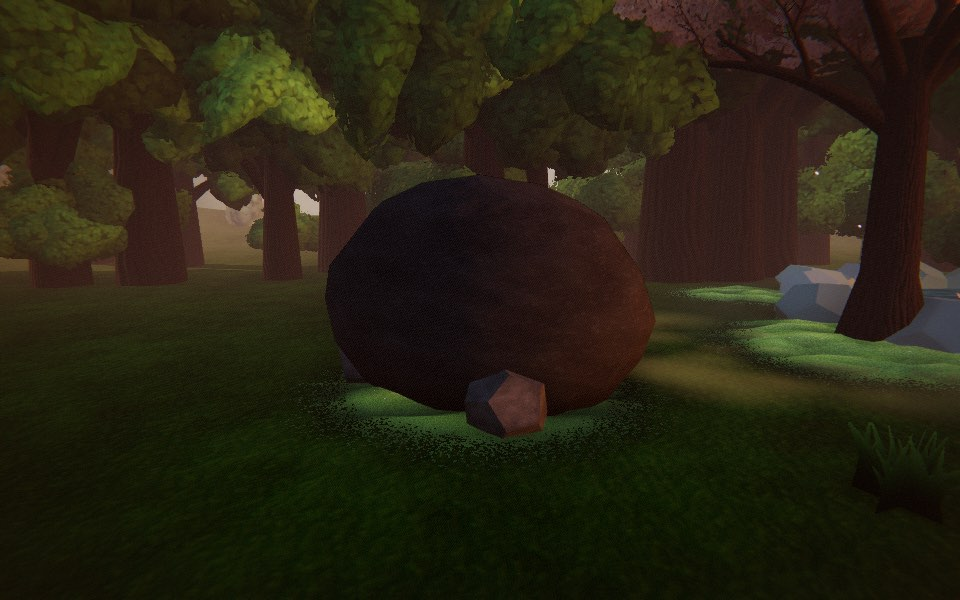
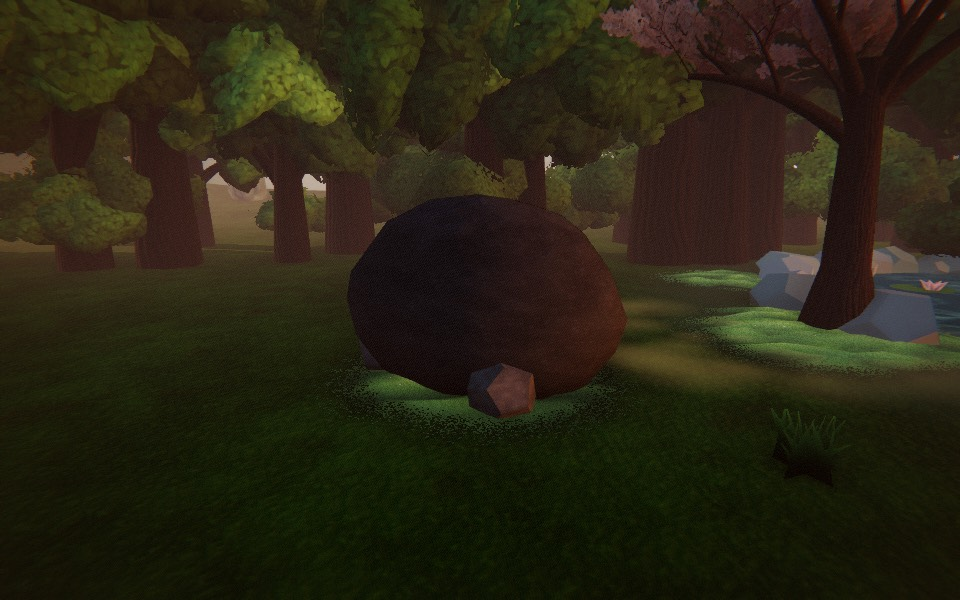
v-rocks: key-rock companion placement fix, re-shot compares, status and handoff

diff --git a/src/kit/rocks/index.js b/src/kit/rocks/index.js
@@ -57,8 +57,8 @@ function buildPathBoulders(ctx, layout, p) {
 // yaw 0.38; two low companions. Half extents below match their bounds.
 const MAIN = { half: [1.02, 0.78, 0.7], pos: [0, 0.64, 0], rot: [0.12, 0.38, -0.08] };
 const COMPANIONS = [
-  { half: [0.3, 0.2, 0.28], pos: [-0.68, 0.165, 0.3], key: 'stone_a', mat: 'stone' },
-  { half: [0.25, 0.17, 0.23], pos: [0.55, 0.19, 0.24], key: 'stone_b', mat: 'stone' }
+  { half: [0.3, 0.22, 0.3], pos: [-0.68, 0.165, 0.28], key: 'stone_a', mat: 'stone' },
+  { half: [0.24, 0.18, 0.24], pos: [0.55, 0.132, 0.35], key: 'stone_b', mat: 'stone' }
 ];
 
 function buildKeyRock(ctx, layout, p) {

diff --git a/docs/fable/status/v-rocks.md b/docs/fable/status/v-rocks.md
@@ -1,0 +1,23 @@
+# v-rocks status
+Model: Claude Sonnet 5.5 (resumed after a dead session). Base: fable/integration 4273c90 (merged). Family: src/kit/rocks, lab 13.
+
+- [x] L1 status file
+- [x] L2-L3 family `rocks`: assets `path-boulders`, `key-rock` (hero/mid/far, params size/moss/weathering/facets), ported chisel rockGeometry via src/kit/craft.js
+- [x] L4 gap specimens: none required
+- [x] L5 merge integration, `node tools/kit_index.mjs` (src/kit/index.js regenerated, not hand-edited)
+- [x] L6 compare JPGs (key-rock re-shot after companion-stone placement fix; path-boulders code unchanged since its shots)
+- [x] L7 checks (below)
+- [x] L9 handoff `docs/fable/handoff/v-rocks.md`
+- [x] L10 push + PR
+
+## Checks
+- kit_check: All kit checks OK (37 passed)
+- kit_contract_test --family rocks: 2 assets, 6 asset x tier builds, 218 checks, 0 failed; merge OK
+- footprint_golden (classic): EQUAL (byte-identical)
+- footprint_golden modular swap of both ids: DIFFERENT only by the intended replacement (path-boulders classic meshes -> asset nodes, key rock meshes -> kit parts); 518 colliders unchanged, 25 anchors unchanged, rng draws unchanged (valley 49233)
+- check_syntax: All 64 modules OK; labs_check: All OK; verify.mjs: 70 passed, 0 failed in static section, but 1 test fails (see concerns)
+- Note: kit_test "kit_check passes on a clean fixture family" fails: its fixture inventory only lists torii/old-gate, so any real family besides shrine trips it. Not a rocks defect; test is outside my files.
+
+## Judgement
+AAA-1: modular key rock reads as chiselled, mossed granite vs the classic smooth dark blob; same volume and silhouette. AAA-5: legible at cat height (0.35 m) and 2-3 m at 6/12/18/22 h; the key and its hiding anchor are untouched (layout position and name unchanged, no collider changed).
+Waivers: none (footprint is the layout's). Live meshes: 0. Merged materials: 0 new (km.rock variants only).

diff --git a/docs/fable/handoff/v-rocks.md b/docs/fable/handoff/v-rocks.md
@@ -1,0 +1,6 @@
+# v-rocks handoff
+- Inventory: `path-boulders` and `key-rock` exist; add `"production": "rocks"` adapters if the catalog uses them. No new rows.
+- Part names: `boulders_light`, `boulders_dark` (path-boulders); `rock`, `stone_a`, `stone_b` (key-rock).
+- Footprint waivers: none. No helpers to move; stone.js (fitRock, variantRock, placed, bake, rockMaterials) is local to the family.
+- Reuse by s2-clearing: import `assets` params (size, moss, weathering, facets) via the kit; no hot-file wiring needed.
+- Integrator: regenerate src/kit/index.js with `node tools/kit_index.mjs`. tools/kit_test.mjs fixture test needs a fixture inventory that tolerates more than one real family.
